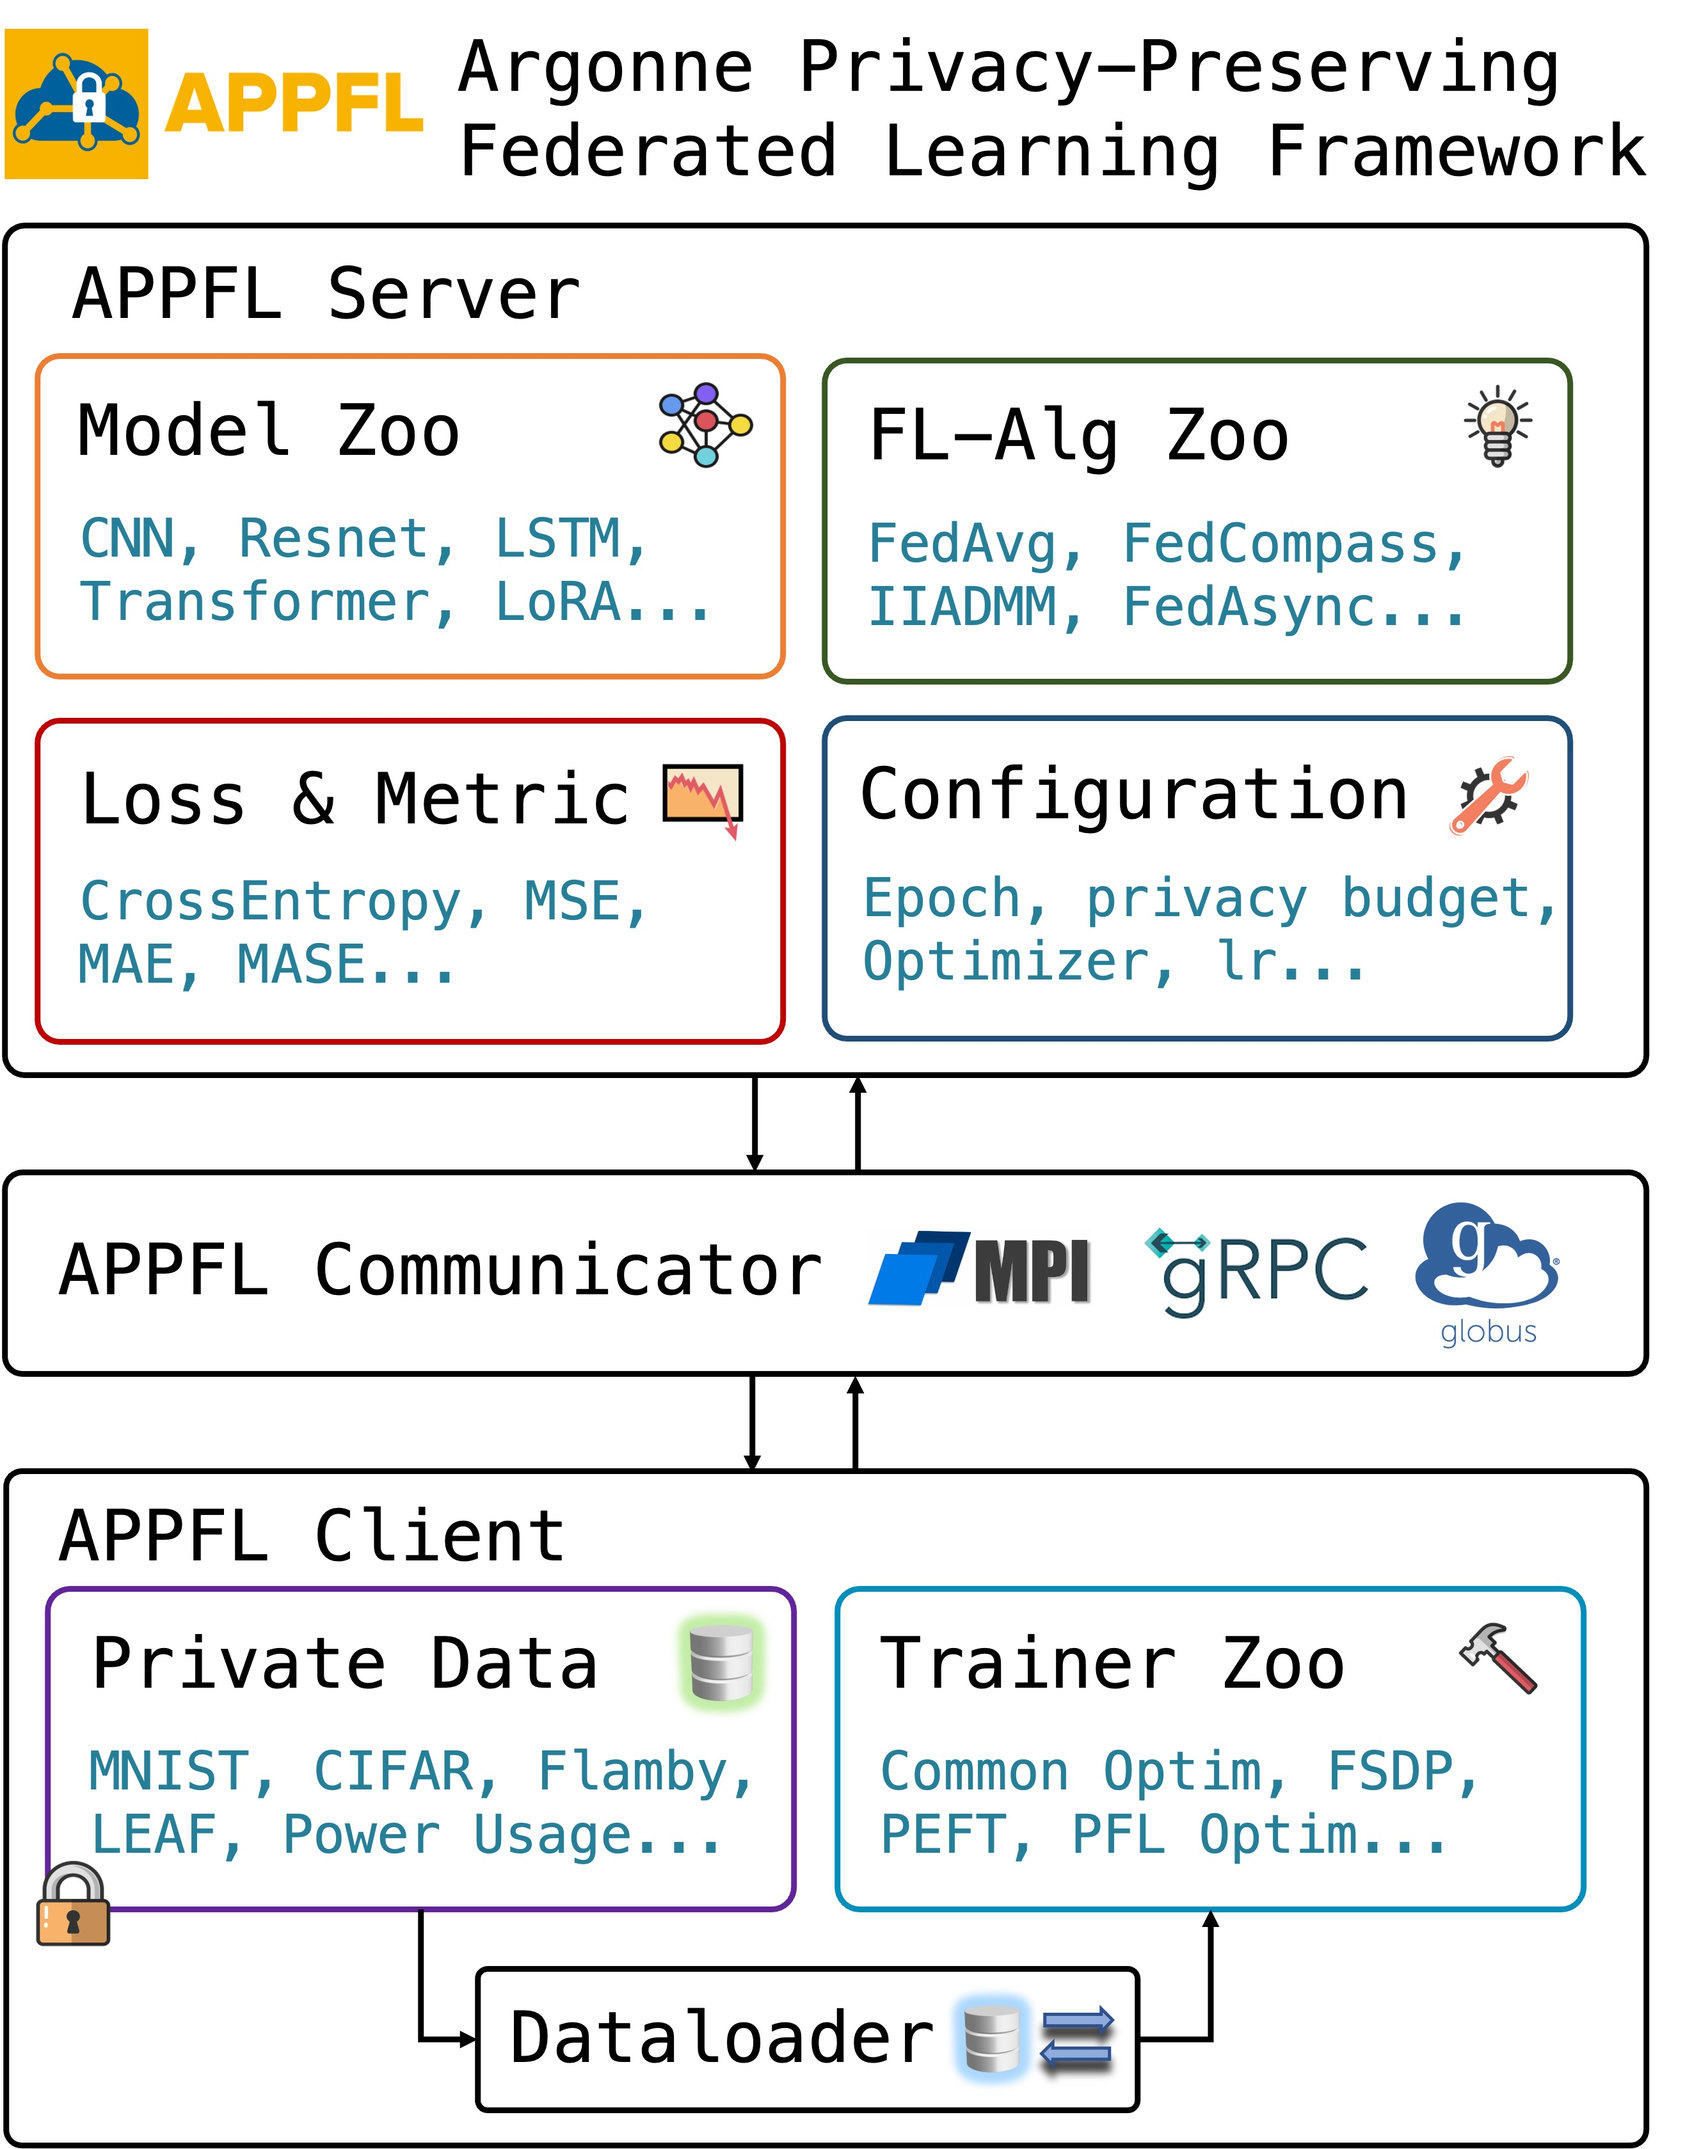
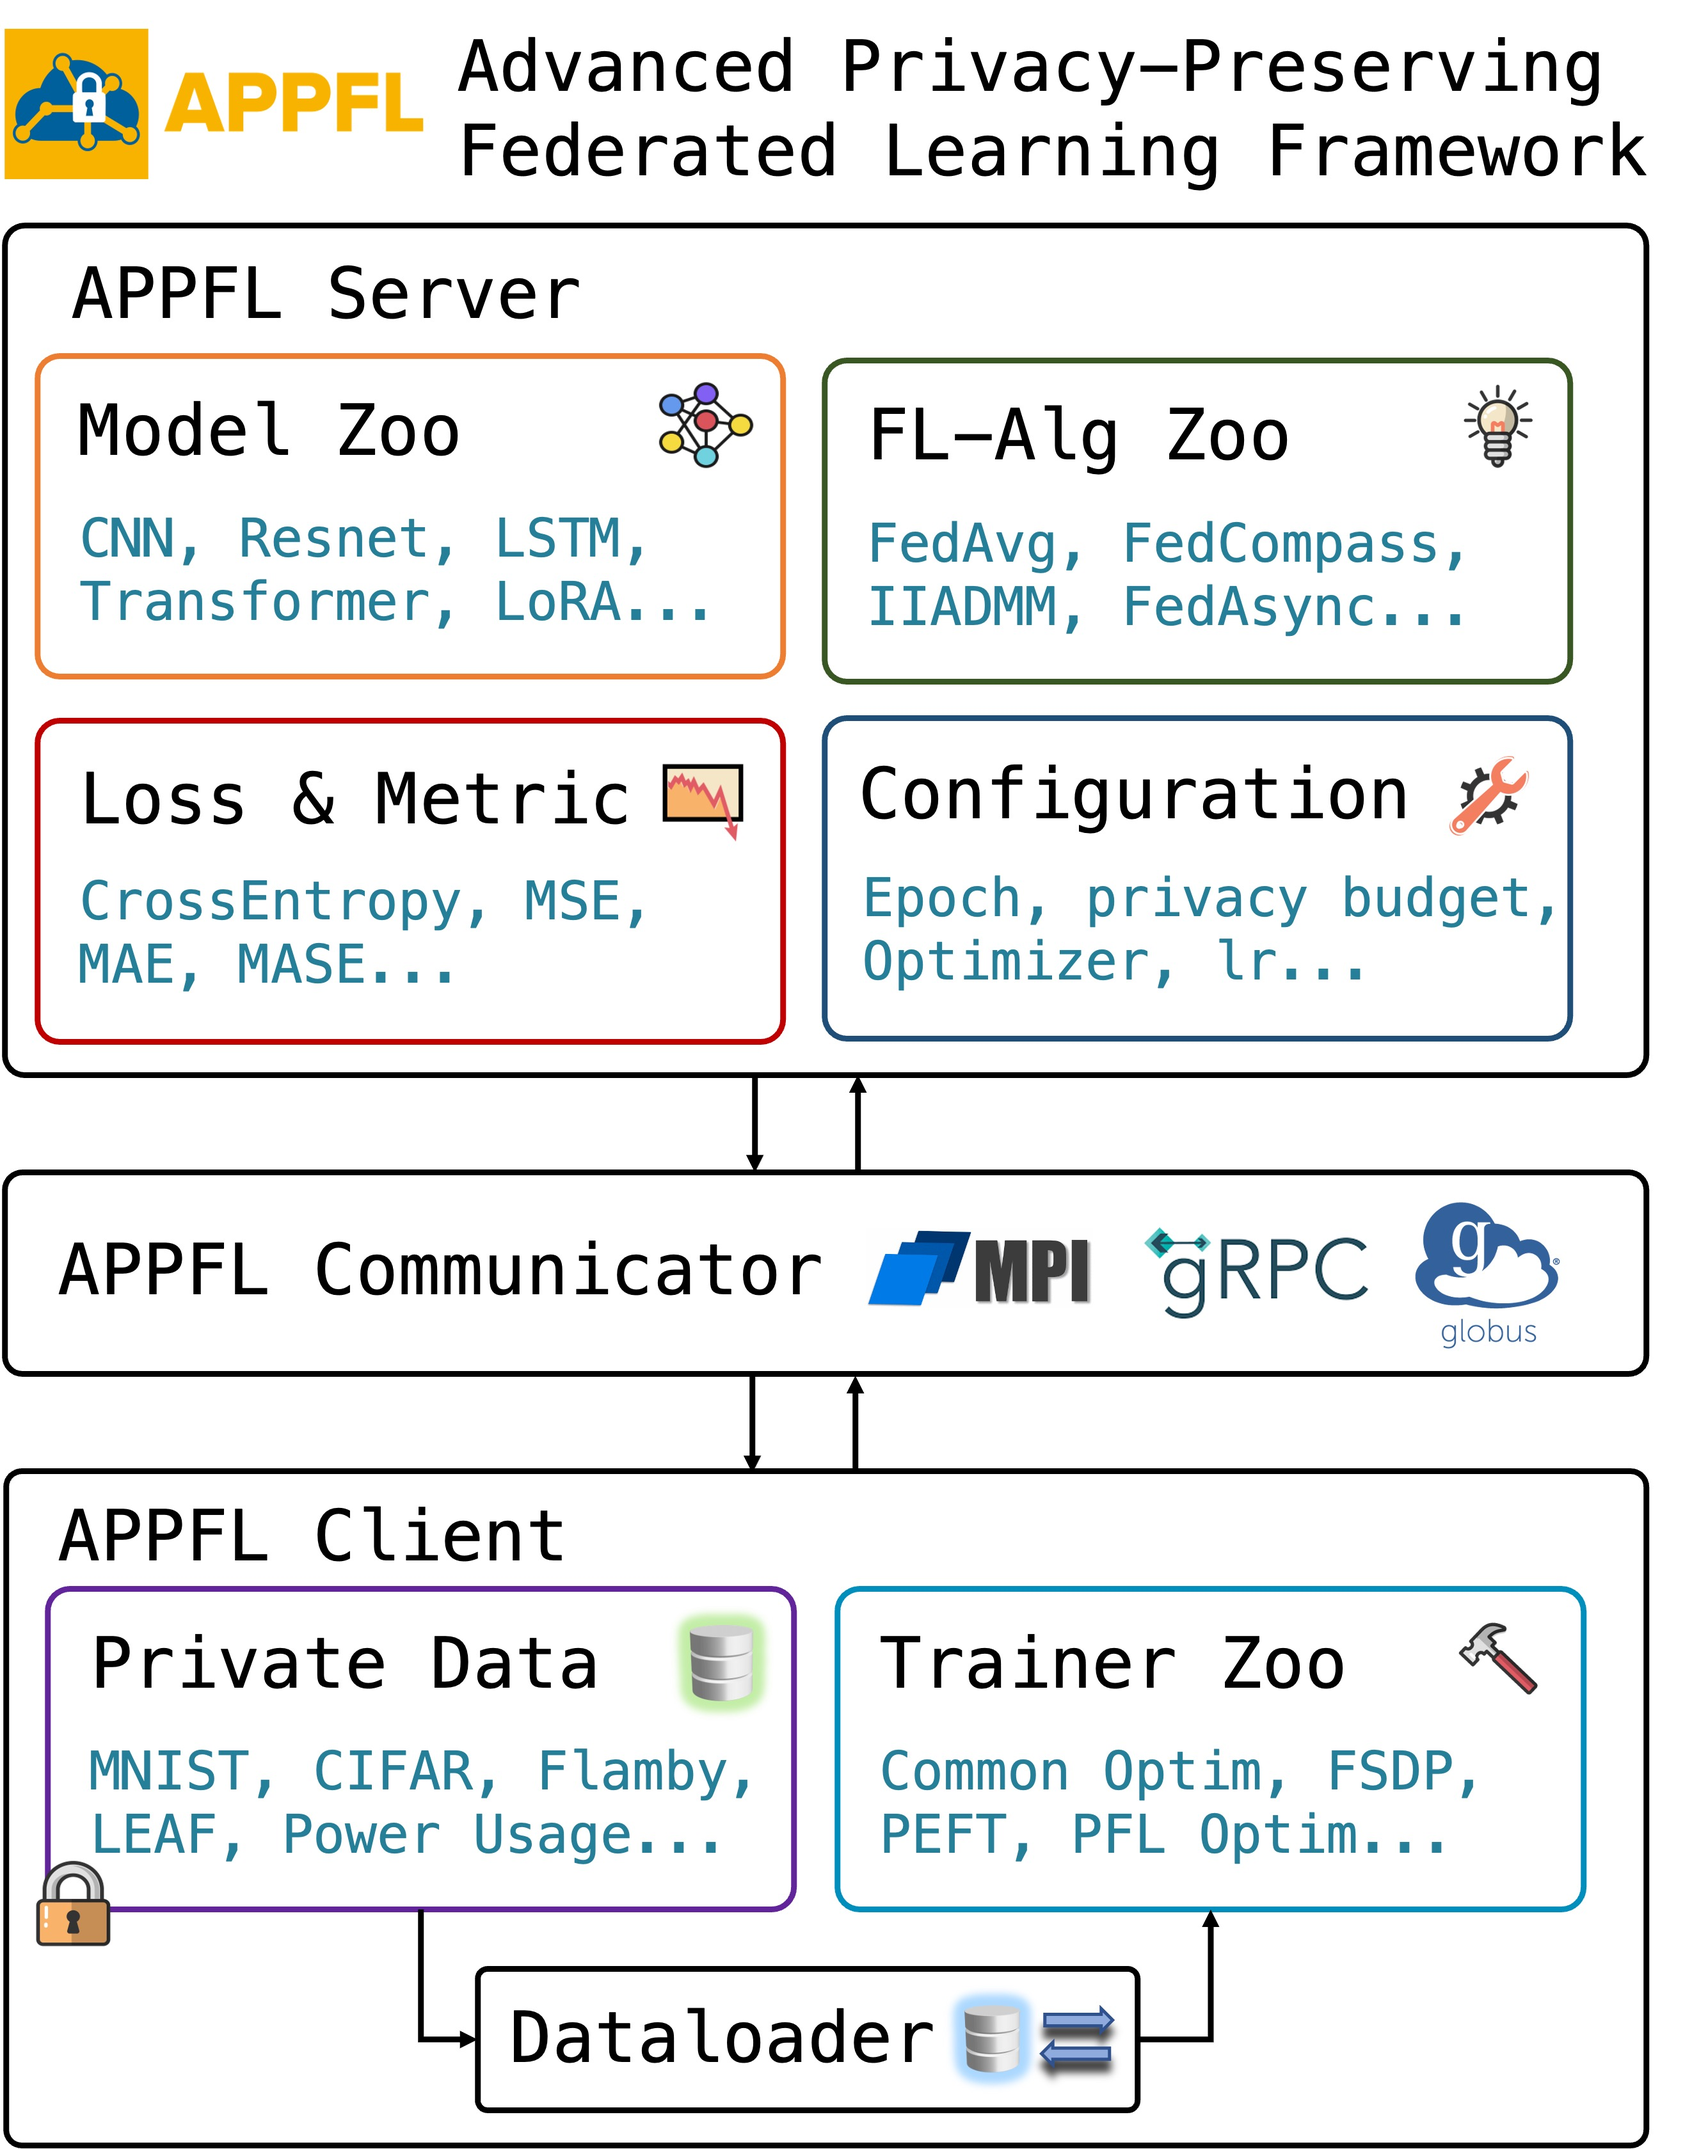
change framework name

Changed region(s): [[0.4652, 0.0, 0.9614, 0.0619], [0.3101, 0.0, 0.3411, 0.0619], [0.4342, 0.031, 0.4652, 0.0619]]

diff --git a/docs/conf.py b/docs/conf.py
@@ -20,7 +20,7 @@ import sphinx_rtd_theme
 # -- Project information -----------------------------------------------------
 
 project = 'APPFL'
-copyright = '2021, Argonne National Laboratory'
+copyright = '2023, Argonne National Laboratory'
 author = 'Argonne National Laboratory'
 
 

diff --git a/docs/index.rst b/docs/index.rst
@@ -3,7 +3,7 @@
    You can adapt this file completely to your liking, but it should at least
    contain the root `toctree` directive.
 
-APPFL: Argonne Privacy-Preserving Federated Learning
+APPFL: Advanced Privacy-Preserving Federated Learning
 ====================================================
 
 .. image:: _static/logo/logo_small.png
